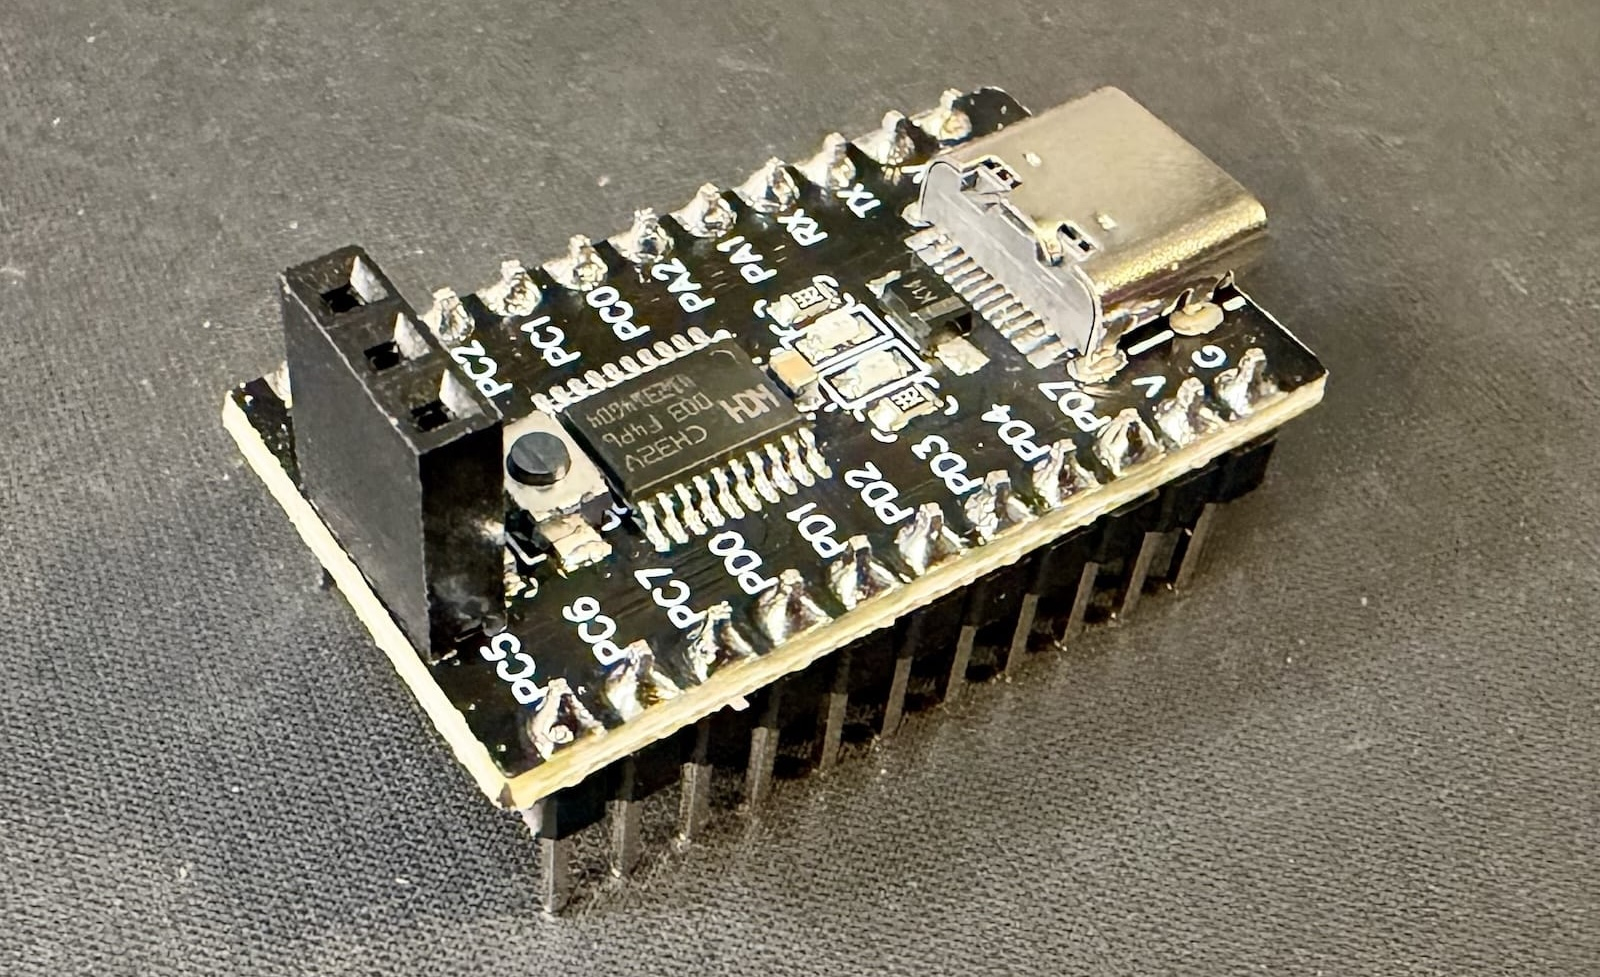
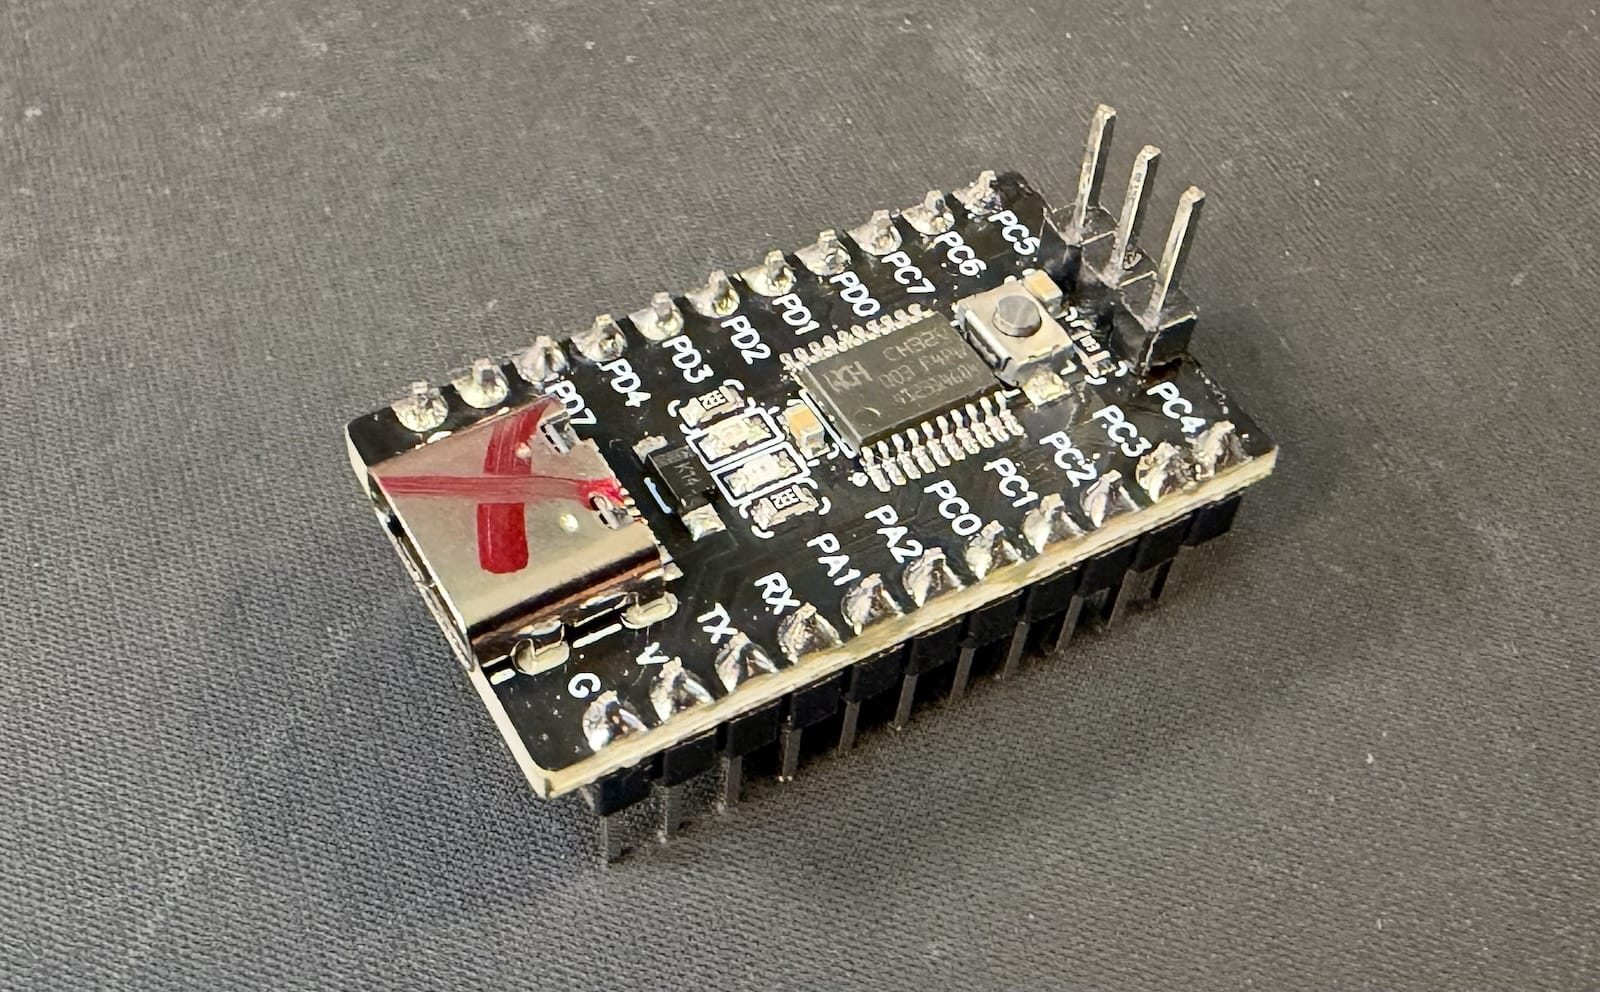
fixup hardware setup in readme

diff --git a/README.md b/README.md
@@ -30,9 +30,9 @@ The USB connector is just for power, no data lines connect to the chip.
 
 <img src="./docs/CH32V003F4P6-devboard-both.jpg" width="500">
 
-For use in a breadboard, I like to solder the header pins on and put a 3-pin 
-female header instead of male pins for the programming pins. The programming
-port can also supply power to the board.
+For use in a breadboard, I like to solder the header pins on, including the
+3-pin pin header for the programming pins. The programming port can also 
+supply power to the board, which is why I put a red 'X' on the USB-C jack.
 
 <img src="./docs/CH32V003F4P6_devboard_soldered.jpg" width="400">
 
@@ -59,15 +59,16 @@ esptool.py -p /dev/tty.usbmodem01 -b 460800 --before=no_reset --after=no_reset \
 ```
 
 Then solder three jumpers to the ESP32-S2 board: Gnd, 3V3, IO6 for SWIO.
-I like the [Lolin S2Mini](https://link.amazon/B0aM3kL9F). The result looks like:
-You may want to do a female header here and male on the board.
+I like the [Lolin S2Mini](https://link.amazon/B0aM3kL9F). The result looks like
+the below. Use 3 M-F jumper wires to go from the programmer to the dev board.
 
 <img src="./docs/ESP32-S2_CH32V003Programmer.jpg" width="400">
 
 ## Breadboard setup
 
 A number of peripherals will be attached to the CH32V003 board.  Here's how
-my breadboard is set up for most of the sketches. Exact [pins used](#pins) described below.
+my breadboard is set up for most of the sketches. 
+Exact [pins used](#pins) described below.
 
 <img src="./docs/todbot-breadboard0.jpg" width="500">
 
